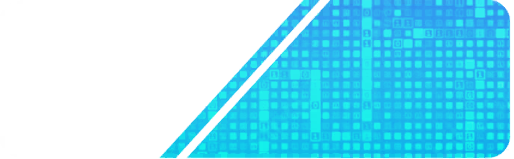
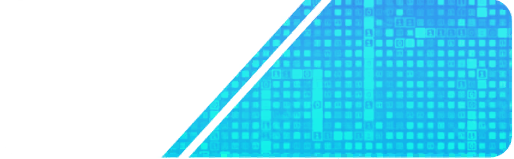
Enhance RegionCard component by adding a border shine effect to improve visual depth. Update styling to include a new CSS class for the border effect and adjust background properties accordingly.

Changed region(s): [[0.3113, 0.0, 0.9961, 1.0], [0.7471, 0.0503, 0.8093, 0.1006]]

diff --git a/app/components/RegionCard.tsx b/app/components/RegionCard.tsx
@@ -38,7 +38,7 @@ export default function RegionCard({ region, onClick }: RegionCardProps) {
   return (
     <div
       onClick={onClick}
-      className="rounded-2xl p-2 sm:p-4 text-black shadow-lg hover:shadow-xl transition-all duration-200 cursor-pointer transform hover:scale-105 relative overflow-hidden w-full"
+      className="rounded-2xl p-2 sm:p-4 text-black shadow-lg hover:shadow-xl transition-all duration-200 cursor-pointer transform hover:scale-105 relative w-full border-shine-container"
       style={{
         backgroundImage: `url('${region.backgroundImage}'), ${stripeBackground}, url('/backdrop.png')`,
         backgroundSize: "contain, cover, cover",
@@ -52,6 +52,14 @@ export default function RegionCard({ region, onClick }: RegionCardProps) {
       <h3 className="text-xl sm:text-2xl md:text-3xl font-bold relative z-10 drop-shadow-lg text-[#0b8fbc] uppercase">
         {region.name}
       </h3>
+      <style jsx>{`
+        .border-shine-container {
+          box-shadow:
+            inset 0 0 0 8px #ffffff,
+            0 0 20px rgba(255, 255, 255, 0.3);
+          overflow: hidden;
+        }
+      `}</style>
     </div>
   );
 }
